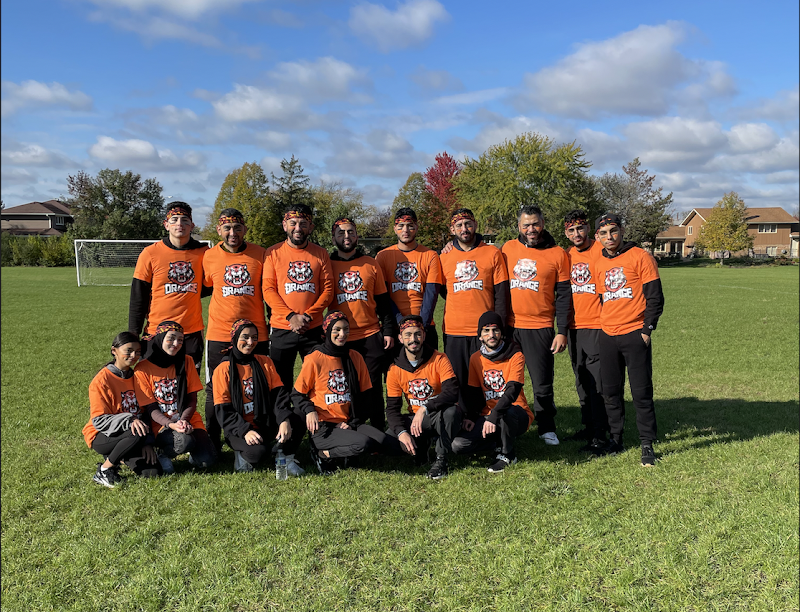
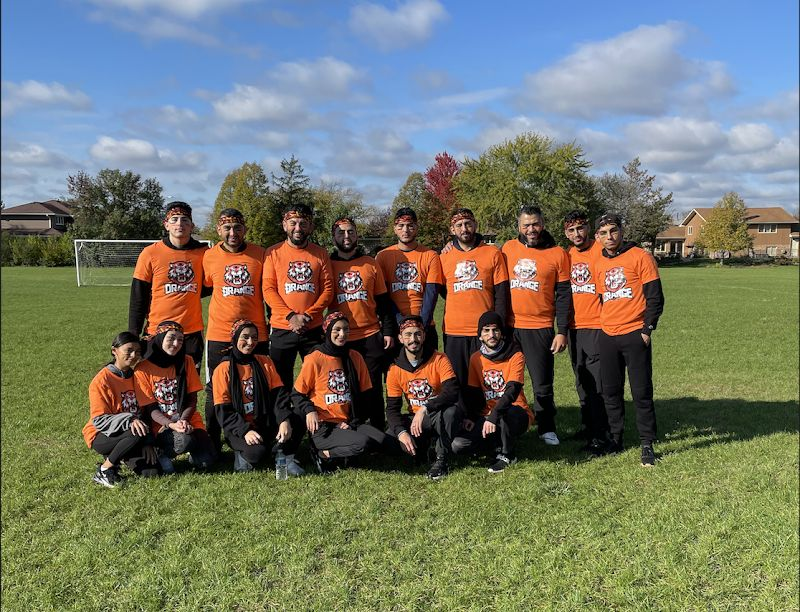
Restore the Our Work photos, Chicago-time month reporting, sweeps no longer need the designer key, report silent enquiry failures

diff --git a/server.js b/server.js
@@ -183,7 +183,21 @@ app.get(['/grad', '/grad/', '/grad/*'], (_req, res) => res.redirect(302, '/'));
 app.get('/design-ideas.html', (_req, res) => res.redirect(301, 'https://design.jtees.net/'));
 
 // Serve frontend
-app.use(express.static(path.join(__dirname, 'public')));
+/* Browser caching for static files. Images and fonts rarely change: 30 days.
+   Scripts and styles are NOT versioned by filename (/assets/js/jt-chat.js is
+   edited in place), so a long cache would keep old code in returning visitors'
+   browsers for its whole lifetime: 1 hour. HTML keeps Express's default of
+   revalidating every load, so a page change is seen immediately. Cloudflare's
+   edge copy is purged on every deploy (npm start runs tools/cf.js purge). */
+app.use(express.static(path.join(__dirname, 'public'), {
+  setHeaders(res, filePath) {
+    if (/\.(?:jpe?g|png|gif|webp|avif|svg|ico|woff2?|ttf|otf|mp4)$/i.test(filePath)) {
+      res.set('Cache-Control', 'public, max-age=2592000');
+    } else if (/\.(?:js|css)$/i.test(filePath)) {
+      res.set('Cache-Control', 'public, max-age=3600');
+    }
+  },
+}));
 
 /* Everything past the static files is generated per request — customer quote
    pages, the admin boards, receipts — and carries names, phones and money. By
@@ -194,9 +208,17 @@ app.use((_req, res, next) => { res.set('Cache-Control', 'no-store'); next(); });
 
 // ─── Database ─────────────────────────────────────────────────────────────────
 
+/* The shop's day is Chicago's day. Without this the session ran in the
+   server's zone (UTC), so every date_trunc('month', ...) and CURRENT_DATE in
+   the SQL — the sales-tax position, the monthly CSV exports, quote expiry —
+   put anything after ~7pm Central on the last day of a month into the NEXT
+   month, and expired quotes hours before the shop's day ended. TIMESTAMPTZ
+   values themselves are absolute and unaffected; only calendar grouping moves.
+   Same zone the app already uses for business days (JT_TIMEZONE). */
 const pool = new Pool({
   connectionString: process.env.DATABASE_URL,
   ssl: { rejectUnauthorized: false },
+  options: `-c TimeZone=${(process.env.JT_TIMEZONE || 'America/Chicago').replace(/[^A-Za-z0-9_/+-]/g, '')}`,
 });
 
 async function initDB() {
@@ -2092,6 +2114,15 @@ app.post('/submit', makeRateLimit(4, 60 * 60 * 1000), rejectBots, verifyTurnstil
   if (hubspotResult.status       === 'rejected') console.error('HubSpot failed:',            hubspotResult.reason?.message, JSON.stringify(hubspotResult.reason?.response?.data));
   if (cloverResult.status        === 'rejected') console.error('Clover failed:',             cloverResult.reason?.message, JSON.stringify(cloverResult.reason?.response?.data));
 
+  /* Logged is not noticed. The enquiry is saved, but if the email that tells
+     the SHOP about it failed, nobody finds out — the exact silent failure the
+     error digest exists for. Each is reported under its own name so the digest
+     groups repeats into one line. */
+  for (const [name, r] of [['notify-shop', emailResult], ['confirm-customer', customerEmailResult],
+                           ['brevo', brevoResult], ['hubspot', hubspotResult], ['clover', cloverResult]]) {
+    if (r.status === 'rejected') reportError('submit:' + name, r.reason || new Error(name + ' failed')).catch(() => {});
+  }
+
   // Persist IDs
   const updates = {};
   if (hubspotResult.status === 'fulfilled') {
@@ -2276,7 +2307,7 @@ app.post('/webhooks/clover', async (req, res) => {
 
     // Confirm to customer via email
     sendPaymentReceivedEmail(sub, amount)
-      .catch(err => console.error('Payment email failed:', err.message));
+      .catch(err => { console.error('Payment email failed:', err.message); reportError('clover:payment-email', err).catch(() => {}); });
 
   } catch (err) {
     console.error('Webhook processing failed:', err.message);
@@ -2440,6 +2471,8 @@ app.post('/webhooks/twilio/sms', async (req, res) => {
     }
   } catch (err) {
     console.error('twilio inbound handling failed:', err.message);
+    // A customer's reply that never reached the shop is a lost conversation.
+    reportError('twilio:inbound', err).catch(() => {});
   }
 });
 
@@ -14936,9 +14969,18 @@ async function runSupplierSync() {
   });
 }
 
-// Hourly abandoned-cart sweep trigger (the designer PHP does the real work).
-// Self-rescheduling with a timeout so a slow sweep can never overlap the next one.
-if (process.env.JT_INTERNAL_KEY) {
+// Hourly sweep: the designer's abandoned-cart run plus every reminder, digest
+// and sync this app owns. Self-rescheduling with a timeout so a slow sweep can
+// never overlap the next one.
+/* It used to run only when JT_INTERNAL_KEY was set, because its first step
+   calls the designer. So a missing key silently stopped the tax reminders, the
+   payment reminders, the daily digest and the nightly price sync as well —
+   none of which need the key. Now only the designer step depends on it.
+
+   It runs where Railway runs it (RAILWAY_ENVIRONMENT_NAME is injected there),
+   or when JT_RUN_SWEEPS=1. A copy started on a laptop must never send the
+   shop's customers reminders — the key used to prevent that by accident. */
+if (process.env.RAILWAY_ENVIRONMENT_NAME || process.env.RAILWAY_ENVIRONMENT || process.env.JT_RUN_SWEEPS === '1') {
   /* Each task is isolated. They used to share one try block, so a slow
      designer — the very first call, over the network — swallowed every task
      after it and the digest, the reminders and the review asks silently did
@@ -14958,6 +15000,7 @@ if (process.env.JT_INTERNAL_KEY) {
 
   const runSweep = async () => {
     await step('abandoned-cart sweep', async () => {
+      if (!process.env.JT_INTERNAL_KEY) throw new Error('JT_INTERNAL_KEY not set — designer cart sweep skipped');
       const r = await studioFetch('https://design.jtees.net/jt-cron.php',
         { timeoutMs: 120000 });
       return r.text();
@@ -15275,7 +15318,9 @@ function validateEnv() {
   }
   if (!process.env.JT_INTERNAL_KEY?.trim()) {
     console.warn('WARNING: JT_INTERNAL_KEY is not set — every call from design.jtees.net ' +
-      '(order emails, texts, consent, login codes) will be refused with 403.');
+      '(order emails, texts, consent, login codes) will be refused with 403, the admin ' +
+      'sign-in from the designer will fail, and the hourly abandoned-cart sweep is skipped ' +
+      '(reported in the error digest). Reminders, digests and the price sync still run.');
   }
   /* Warn-only for the same reason as the rest: no Sentry project yet is a
      degraded mode, not an outage — the database digest still reports. Said at

diff --git a/public/index.html b/public/index.html
@@ -426,7 +426,7 @@
     .hero-bg {
       position: absolute;
       inset: 0;
-      background-image: url('https://previews.digitalvisionstudios.net/junesteesnthings/assets/images/content-media-1.png');
+      background-image: url('https://res.cloudinary.com/dhjtzewsx/video/upload/c_limit,w_1600,q_auto,f_jpg/site/hero-background.jpg'); /* the hero video's own poster frame */
       background-size: cover;
       background-position: center;
       transform: scale(1.05);
@@ -2134,73 +2134,73 @@
 
       <div class="portfolio-grid">
         <div class="portfolio-item fade-left" style="transition-delay:0.05s">
-          <img src="https://previews.digitalvisionstudios.net/junesteesnthings/assets/images/content-media-1.jpg" alt="Custom Screen-Printed T-Shirt" loading="lazy" />
+          <img src="/assets/images/work/screen-printing-press.jpg" alt="Shirt on a screen printing press mid-print" loading="lazy" />
           <div class="portfolio-overlay">
             <div>
               <div class="portfolio-tag">Screen Printing</div>
-              <div class="portfolio-label">Custom T-Shirt Printing</div>
+              <div class="portfolio-label">Printed In-House</div>
             </div>
           </div>
         </div>
         <div class="portfolio-item fade-right" style="transition-delay:0.1s">
-          <img src="https://previews.digitalvisionstudios.net/junesteesnthings/assets/images/content-media-2.jpg" alt="Custom Birthday Shirt" loading="lazy" />
+          <img src="/assets/images/work/kindergarten-back-to-school-tee.jpg" alt=""Watch Out! Kindergarten Here I Come" back-to-school shirt" loading="lazy" />
           <div class="portfolio-overlay">
             <div>
               <div class="portfolio-tag">Custom Designs</div>
-              <div class="portfolio-label">Party Prints</div>
+              <div class="portfolio-label">Back-to-School Tees</div>
             </div>
           </div>
         </div>
         <div class="portfolio-item fade-left" style="transition-delay:0.15s">
-          <img src="https://previews.digitalvisionstudios.net/junesteesnthings/assets/images/content-media-3.jpg" alt="DTF Transfer Prints" loading="lazy" />
+          <img src="/assets/images/work/full-color-team-logo-print.jpg" alt="Full-color Northville Night Owls team logo print" loading="lazy" />
           <div class="portfolio-overlay">
             <div>
               <div class="portfolio-tag">DTF Transfers</div>
-              <div class="portfolio-label">Full-Color Transfers</div>
+              <div class="portfolio-label">Full-Color Team Logos</div>
             </div>
           </div>
         </div>
         <div class="portfolio-item fade-right" style="transition-delay:0.2s">
-          <img src="https://previews.digitalvisionstudios.net/junesteesnthings/assets/images/content-media-4.jpg" alt="Embroidered Business Polo" loading="lazy" />
+          <img src="/assets/images/work/embroidery-machine-polos.jpg" alt="Multi-head embroidery machines stitching polos" loading="lazy" />
           <div class="portfolio-overlay">
             <div>
               <div class="portfolio-tag">Embroidery</div>
-              <div class="portfolio-label">Business Apparel</div>
+              <div class="portfolio-label">In-House Embroidery</div>
             </div>
           </div>
         </div>
         <div class="portfolio-item fade-left" style="transition-delay:0.25s">
-          <img src="https://previews.digitalvisionstudios.net/junesteesnthings/assets/images/content-media-5.jpg" alt="Custom Long Sleeve Business Shirt" loading="lazy" />
+          <img src="/assets/images/work/company-zip-hoodies.jpg" alt="A.J. Kennedy Group company zip hoodies with printed sleeves" loading="lazy" />
           <div class="portfolio-overlay">
             <div>
-              <div class="portfolio-tag">Screen Printing</div>
-              <div class="portfolio-label">Business Apparel</div>
+              <div class="portfolio-tag">Business Apparel</div>
+              <div class="portfolio-label">Company Hoodies</div>
             </div>
           </div>
         </div>
         <div class="portfolio-item fade-right" style="transition-delay:0.3s">
-          <img src="https://previews.digitalvisionstudios.net/junesteesnthings/assets/images/content-media-6.jpg" alt="Bulk Order Folded Shirts" loading="lazy" />
+          <img src="/assets/images/work/family-reunion-bulk-order.jpg" alt="Box of Family Reunion 2023 shirts ready for pickup" loading="lazy" />
           <div class="portfolio-overlay">
             <div>
               <div class="portfolio-tag">Bulk Orders</div>
-              <div class="portfolio-label">Bulk Custom Apparel</div>
+              <div class="portfolio-label">Family Reunion Order</div>
             </div>
           </div>
         </div>
         <div class="portfolio-item fade-left" style="transition-delay:0.35s">
-          <img src="https://previews.digitalvisionstudios.net/junesteesnthings/assets/images/content-media-7.jpg" alt="Custom White Shirt and Cap Set" loading="lazy" />
+          <img src="/assets/images/work/logo-tee-and-cap-set.jpg" alt="Custom MEAQ logo tee with a matching cap" loading="lazy" />
           <div class="portfolio-overlay">
             <div>
               <div class="portfolio-tag">Custom Designs</div>
-              <div class="portfolio-label">Custom Apparel Sets</div>
+              <div class="portfolio-label">Logo Tee &amp; Cap Set</div>
             </div>
           </div>
         </div>
         <div class="portfolio-item fade-right" style="transition-delay:0.4s">
-          <img src="https://previews.digitalvisionstudios.net/junesteesnthings/assets/images/content-media-8.jpg" alt="Custom Graphic Tee" loading="lazy" />
+          <img src="/assets/images/work/ghost-graphic-tee.jpg" alt=""I'm Too Old For This Sheet" ghost graphic tee" loading="lazy" />
           <div class="portfolio-overlay">
             <div>
-              <div class="portfolio-tag">Screen Printing</div>
+              <div class="portfolio-tag">Graphic Tees</div>
               <div class="portfolio-label">Custom Graphic Tees</div>
             </div>
           </div>
@@ -2273,7 +2273,7 @@
               <ul class="splide__list">
 
             <li class="splide__slide">
-                  <img src="https://previews.digitalvisionstudios.net/junesteesnthings/assets/images/content-media-1.png" alt="Team in custom orange shirts" loading="lazy" />
+                  <img src="/assets/images/work/storefront-lincoln-ave.jpg" alt="June's Tees &amp; Things storefront on Lincoln Ave, Chicago" loading="lazy" />
                 </li>
 
             <li class="splide__slide">

diff --git a/tests/site-images.test.js b/tests/site-images.test.js
@@ -1,0 +1,55 @@
+'use strict';
+
+/* Every image the public site shows must come from somewhere we control.
+
+   The homepage's "Our Work" gallery, hero fallback and an about-slider photo
+   pointed at previews.digitalvisionstudios.net — a site builder's preview host
+   that later became an unrelated store and started answering 404. Nine images
+   went blank and nothing noticed until a customer-facing screenshot. This fails
+   on any image from an unlisted host, and on any local image path that has no
+   file behind it. */
+
+const { test } = require('node:test');
+const assert = require('node:assert');
+const fs = require('node:fs');
+const path = require('node:path');
+
+const PUBLIC = path.join(__dirname, '..', 'public');
+const ALLOWED_HOSTS = new Set(['res.cloudinary.com', 'www.jtees.net', 'jtees.net', 'design.jtees.net']);
+
+function htmlFiles(dir) {
+  return fs.readdirSync(dir, { withFileTypes: true }).flatMap((e) => {
+    const p = path.join(dir, e.name);
+    if (e.isDirectory()) return e.name === 'assets' ? [] : htmlFiles(p);
+    return e.name.endsWith('.html') ? [p] : [];
+  });
+}
+
+function imageRefs(html) {
+  const refs = [];
+  for (const m of html.matchAll(/<img\b[^>]*\bsrc="([^"]+)"/gi)) refs.push(m[1]);
+  for (const m of html.matchAll(/url\(\s*['"]?([^'")]+\.(?:jpe?g|png|gif|webp|avif|svg))['"]?\s*\)/gi)) refs.push(m[1]);
+  for (const m of html.matchAll(/<meta\s+(?:property|name)="(?:og:image|twitter:image)"\s+content="([^"]+)"/gi)) refs.push(m[1]);
+  return refs.filter((r) => !r.startsWith('data:') && !r.includes('${'));
+}
+
+test('site images come only from hosts we control, and local ones exist', () => {
+  const problems = [];
+  for (const file of htmlFiles(PUBLIC)) {
+    const rel = path.relative(PUBLIC, file);
+    for (const ref of imageRefs(fs.readFileSync(file, 'utf8'))) {
+      if (/^https?:\/\//i.test(ref)) {
+        const host = new URL(ref).hostname;
+        if (!ALLOWED_HOSTS.has(host)) { problems.push(`${rel}: image from unlisted host ${host} — ${ref}`); continue; }
+        if (host.endsWith('jtees.net') && host !== 'design.jtees.net') {
+          const local = path.join(PUBLIC, decodeURIComponent(new URL(ref).pathname));
+          if (!fs.existsSync(local)) problems.push(`${rel}: ${ref} has no file in public/`);
+        }
+      } else if (ref.startsWith('/')) {
+        const local = path.join(PUBLIC, decodeURIComponent(ref.split('?')[0]));
+        if (!fs.existsSync(local)) problems.push(`${rel}: ${ref} has no file in public/`);
+      }
+    }
+  }
+  assert.deepStrictEqual(problems, []);
+});

diff --git a/tests/customer-sms.test.js b/tests/customer-sms.test.js
@@ -131,11 +131,20 @@ test('sendCustomerSms checks consent for the right kind before sending', () => {
   assert.match(body, /twilioCode === 21610/);
 });
 
-test('designer consent is recorded before the order confirmation that texts', () => {
-  const php = path.join(process.env.HOME || '', 'lumise-designer', 'php_connector.php');
-  if (!fs.existsSync(php)) return; // designer repo not checked out alongside
-  const src = fs.readFileSync(php, 'utf8');
-  assert.ok(src.indexOf("jt_sms_consent($_POST['phone']") < src.indexOf("jt_send_mail('order-confirmation'"));
+test('designer: consent before the held confirmation; confirmation only after payment', () => {
+  const dir = path.join(process.env.HOME || '', 'lumise-designer');
+  if (!fs.existsSync(dir)) return; // designer repo not checked out alongside
+  const conn = fs.readFileSync(path.join(dir, 'php_connector.php'), 'utf8');
+  const stripe = fs.readFileSync(path.join(dir, 'inc', 'stripe.php'), 'utf8');
+  const ipn = fs.readFileSync(path.join(dir, 'paypal_ipn.php'), 'utf8');
+  // save_order runs before the customer pays: it may HOLD, never send.
+  assert.ok(conn.indexOf("jt_sms_consent($_POST['phone']") < conn.indexOf('jt_order_mail_hold('));
+  assert.doesNotMatch(conn, /jt_send_mail\('order-confirmation'/, 'checkout must not thank an unpaid order');
+  assert.doesNotMatch(conn, /jt_send_mail\('order-notification'/, 'the shop alert waits for payment too');
+  // Every way money arrives releases it.
+  assert.match(stripe, /jt_order_mail_release\(\$order_id\)/);
+  assert.match(ipn, /jt_order_mail_release\(\$order\['id'\]\)/);
+  assert.ok(!fs.existsSync(path.join(dir, 'placeorder.php')), 'placeorder.php saved orders without payment');
 });
 
 test('Twilio signature: valid passes, tampered fails', () => {
@@ -233,7 +242,7 @@ test('designer copies of the consent wording match what the consent row records'
 });
 
 test('dynamic pages default to no-store, after static files', () => {
-  const staticAt = server.indexOf("app.use(express.static(path.join(__dirname, 'public')));");
+  const staticAt = server.indexOf("app.use(express.static(path.join(__dirname, 'public')");
   const noStoreAt = server.indexOf("app.use((_req, res, next) => { res.set('Cache-Control', 'no-store'); next(); });");
   assert.ok(staticAt > 0 && noStoreAt > staticAt, 'no-store must be mounted after static and before routes');
   assert.ok(noStoreAt < server.indexOf("app.get('/q/:code'"));

diff --git a/tests/ops-guards.test.js b/tests/ops-guards.test.js
@@ -1,0 +1,34 @@
+'use strict';
+
+/* Operational guards from the 2026-09-26 full audit. Each one is a failure that
+   happened silently: nothing broke loudly, the business just quietly lost
+   something (month-end tax totals, reminders, an unread enquiry alert). */
+
+const { test } = require('node:test');
+const assert = require('node:assert');
+const fs = require('node:fs');
+const path = require('node:path');
+
+const server = fs.readFileSync(path.join(__dirname, '..', 'server.js'), 'utf8');
+
+test('database sessions run on Chicago time, so month-end money lands in the right month', () => {
+  const pool = server.slice(server.indexOf('const pool = new Pool({'), server.indexOf('});', server.indexOf('const pool = new Pool({')));
+  assert.match(pool, /options: `-c TimeZone=\$\{\(process\.env\.JT_TIMEZONE \|\| 'America\/Chicago'\)/);
+});
+
+test('the hourly sweep does not depend on the designer key, only on running in production', () => {
+  const at = server.indexOf("const runSweep = async () => {");
+  const guardLine = server.lastIndexOf('\nif (', at);
+  const guard = server.slice(guardLine, server.indexOf('\n', guardLine + 1));
+  assert.match(guard, /RAILWAY_ENVIRONMENT_NAME/);
+  assert.doesNotMatch(guard, /JT_INTERNAL_KEY/, 'a missing designer key must not stop reminders, digests and the price sync');
+  const sweep = server.slice(at, server.indexOf('setTimeout(runSweep', at));
+  for (const task of ['deposit reminders', 'daily digest', 'tax check', 'supplier sync']) assert.ok(sweep.includes(`'${task}'`), task);
+});
+
+test('a failed "new enquiry" alert reaches the error digest, not just the log', () => {
+  const at = server.indexOf("app.post('/submit'");
+  const route = server.slice(at, server.indexOf('\n});', at));
+  assert.match(route, /reportError\('submit:' \+ name/);
+  assert.match(route, /\['notify-shop', emailResult\]/);
+});
